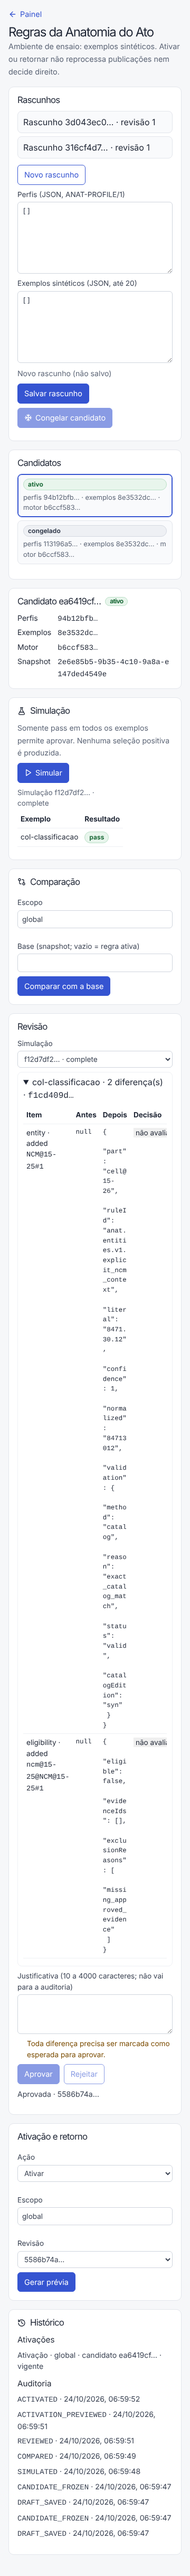
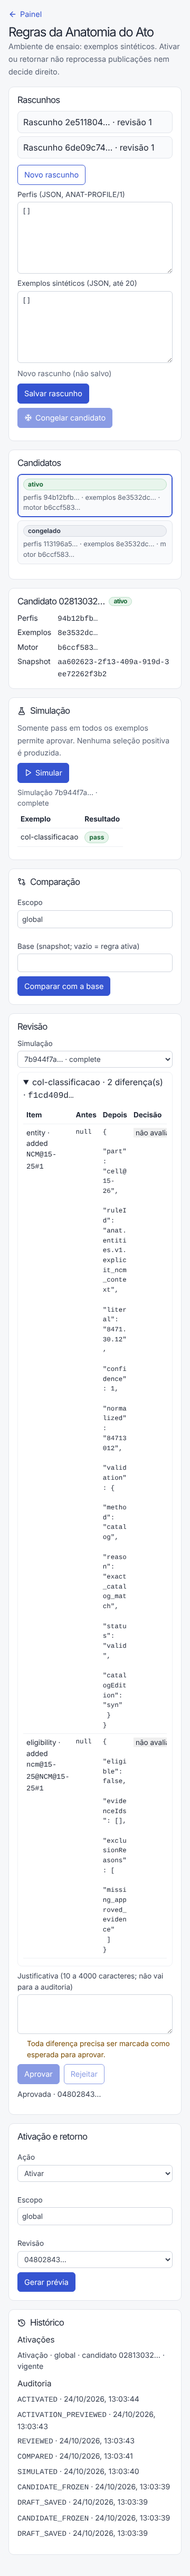
fix(anat): ADMIN-01 P4 R1 — prévia presa ao candidato e congelamento só do conteúdo salvo
P4-R1-01: CandidatePanel remontado por candidato; prévia guardada com candidato, ação e escopo,
nunca exibida nem confirmável sob outro candidato; resposta tardia descartada; confirmação
identifica candidato, ação e escopo.
P4-R1-02: congelar bloqueado com edição pendente ou salvamento em andamento; o conteúdo salvo é
exatamente o enviado.
Ambos reproduzidos no 1269b69 pelos testes novos; e2e contra a API real corrigida: 12 passed.

Claude-Session: https://claude.ai/code/session_01KhCg9yLSBtwRFPrAVa25fp

diff --git a/src/anatomy-rules-admin.tsx b/src/anatomy-rules-admin.tsx
@@ -76,7 +76,7 @@ export function AnatomyRulesAdminPage({ apiFetch, userId }: { apiFetch: ProductA
       </header>
       <div className="ar-layout">
         <section className="ar-column" aria-label="Versões"><DraftsPanel api={api} onFrozen={setSelected} /><CandidatesPanel api={api} selected={selected} onSelect={setSelected} /></section>
-        <section className="ar-column ar-main" aria-label="Candidato">{selected ? <CandidatePanel api={api} id={selected} userId={userId} /> : <p className="ar-empty">Selecione ou congele um candidato.</p>}</section>
+        <section className="ar-column ar-main" aria-label="Candidato">{selected ? <CandidatePanel key={selected} api={api} id={selected} userId={userId} /> : <p className="ar-empty">Selecione ou congele um candidato.</p>}</section>
       </div>
       <HistoryPanel api={api} />
     </div>
@@ -89,20 +89,27 @@ function DraftsPanel({ api, onFrozen }: { api: ReturnType<typeof anatomyRulesApi
   const [editing, setEditing] = useState<Draft | null>(null)
   const [profiles, setProfiles] = useState('[]'); const [examples, setExamples] = useState('[]')
   const [local, setLocal] = useState<string | null>(null)
-  const load = (d: Draft | null) => { setEditing(d); setProfiles(JSON.stringify(d?.profiles ?? [], null, 2)); setExamples(JSON.stringify(d?.examples ?? [], null, 2)); setLocal(null) }
+  // P4-R1-02: what the server holds for `editing` (as shown when loaded or last saved). Freeze needs visible == saved.
+  const [savedText, setSavedText] = useState<{ profiles: string; examples: string } | null>(null)
+  const load = (d: Draft | null) => {
+    const p = JSON.stringify(d?.profiles ?? [], null, 2); const e = JSON.stringify(d?.examples ?? [], null, 2)
+    setEditing(d); setProfiles(p); setExamples(e); setLocal(null); setSavedText(d ? { profiles: p, examples: e } : null)
+  }
   const save = useMutation({
-    mutationFn: async () => {
-      const p = parseJsonArray(profiles, 'Perfis'); const e = parseJsonArray(examples, 'Exemplos')
+    mutationFn: async (sent: { profiles: string; examples: string }) => {
+      const p = parseJsonArray(sent.profiles, 'Perfis'); const e = parseJsonArray(sent.examples, 'Exemplos')
       const problem = p.error ?? e.error ?? (e.value && e.value.length > 20 ? 'Exemplos: no máximo 20.' : null)
       if (problem) { setLocal(problem); throw new Error('local') }
       setLocal(null)
       return editing ? api.updateDraft(editing.id, editing.revision, p.value!, e.value!) : api.createDraft(p.value!, e.value!)
     },
-    onSuccess: async (r) => {
+    onSuccess: async (r, sent) => {
+      setSavedText(sent) // exactly the content that was sent, even if the user kept typing meanwhile
       await qc.invalidateQueries({ queryKey: ['anat', 'drafts'] })
       setEditing((d) => (d ? { ...d, id: r.id, revision: r.revision } : { id: r.id, revision: r.revision, author: '', updatedAt: '', profiles: [], examples: [] }))
     },
   })
+  const dirty = savedText === null || savedText.profiles !== profiles || savedText.examples !== examples
   const freeze = useMutation({
     mutationFn: () => api.freeze(editing!.id, editing!.revision),
     onSuccess: async (r) => { await qc.invalidateQueries({ queryKey: ['anat', 'candidates'] }); onFrozen(r.candidateId) },
@@ -122,9 +129,10 @@ function DraftsPanel({ api, onFrozen }: { api: ReturnType<typeof anatomyRulesApi
       {save.isError && !local && <p className="ar-error" role="alert">{errorText(save.error)}</p>}
       {save.isSuccess && <p className="ar-ok" role="status">Rascunho salvo (revisão {save.data.revision}).</p>}
       <div className="ar-actions">
-        <button type="button" onClick={() => save.mutate()} disabled={save.isPending}>Salvar rascunho</button>
-        <button type="button" onClick={() => freeze.mutate()} disabled={!editing || freeze.isPending}><Snowflake size={15} /> Congelar candidato</button>
+        <button type="button" onClick={() => save.mutate({ profiles, examples })} disabled={save.isPending}>Salvar rascunho</button>
+        <button type="button" onClick={() => freeze.mutate()} disabled={!editing || dirty || save.isPending || freeze.isPending}><Snowflake size={15} /> Congelar candidato</button>
       </div>
+      {editing && dirty && <p className="ar-warn" role="note">Há alterações não salvas: salve antes de congelar.</p>}
       {freeze.isError && <p className="ar-error" role="alert">{errorText(freeze.error)}</p>}
       {freeze.isSuccess && <p className="ar-ok" role="status">{freeze.data.created ? 'Candidato congelado.' : 'Candidato já existia com os mesmos hashes.'}</p>}
     </div>
@@ -252,10 +260,18 @@ function ActivationPanel({ api, detail, onDone }: { api: ReturnType<typeof anato
   const [chosen, setReviewId] = useState('')
   const reviewId = approved.some((r) => r.id === chosen) ? chosen : (approved[0]?.id ?? '')
   const [scope, setScope] = useState('global'); const [action, setAction] = useState<'activate' | 'rollback'>('activate')
-  const [pending, setPending] = useState<Preview | null>(null); const [justification, setJustification] = useState('')
-  const preview = useMutation({ mutationFn: () => api.preview({ action, candidateId: detail.candidate.id, reviewId, scope }), onSuccess: (p) => setPending(p) })
+  // P4-R1-01: a preview is bound to the candidate, action and scope it was generated for; it is never shown (nor
+  // confirmable) under another candidate, and a late response for a previous selection is dropped.
+  const [held, setPending] = useState<{ preview: Preview; candidateId: string; action: 'activate' | 'rollback'; scope: string } | null>(null)
+  const [justification, setJustification] = useState('')
+  const candidateId = detail.candidate.id
+  const pending = held && held.candidateId === candidateId ? held : null
+  const preview = useMutation({
+    mutationFn: async () => ({ preview: await api.preview({ action, candidateId, reviewId, scope }), candidateId, action, scope }),
+    onSuccess: (p) => { if (p.candidateId === candidateId) setPending(p) },
+  })
   const confirm = useMutation({
-    mutationFn: () => api.confirm({ token: pending!.token, intentHash: pending!.intentHash, justification }),
+    mutationFn: () => { if (!pending || pending.candidateId !== candidateId) throw new Error('preview_not_for_this_candidate'); return api.confirm({ token: pending.preview.token, intentHash: pending.preview.intentHash, justification }) },
     onSuccess: async () => { setPending(null); await onDone() },
     onError: (e) => { if (e instanceof AnatomyRulesApiError && ['PREVIEW_EXPIRED', 'PREVIEW_STALE', 'PREVIEW_CONSUMED'].includes(e.code)) setPending(null) },
   })
@@ -275,14 +291,15 @@ function ActivationPanel({ api, detail, onDone }: { api: ReturnType<typeof anato
         {confirm.isSuccess && <p className="ar-ok" role="status">{confirm.data.replayed ? 'Ativação já registrada (repetição).' : 'Ativação registrada.'}</p>}
       </>) : (
         <div className="ar-confirm" role="region" aria-label="Confirmar ativação">
-          <p><strong>Prévia {shortHash(pending.previewId)}</strong> · expira {new Date(pending.expiresAt).toLocaleTimeString('pt-BR')} · base: {pending.affectedScope.basis === 'active_candidate' ? 'regra ativa' : 'perfis padrão do motor'}</p>
+          <p><strong>Candidato {shortHash(pending.candidateId)}</strong> · {pending.action === 'activate' ? 'Ativar' : 'Retornar'} · escopo {pending.scope}</p>
+          <p>Prévia {shortHash(pending.preview.previewId)} · expira {new Date(pending.preview.expiresAt).toLocaleTimeString('pt-BR')} · base: {pending.preview.affectedScope.basis === 'active_candidate' ? 'regra ativa' : 'perfis padrão do motor'}</p>
           <table className="ar-table"><thead><tr><th>Fonte</th><th>Família</th><th>Perfil efetivo</th></tr></thead><tbody>
-            {pending.affectedScope.targets.map((t) => <tr key={`${t.source}|${t.family ?? ''}`}><td>{t.source}</td><td>{t.family ?? 'todas'}</td><td>{t.changed ? 'muda' : 'igual'}</td></tr>)}
+            {pending.preview.affectedScope.targets.map((t) => <tr key={`${t.source}|${t.family ?? ''}`}><td>{t.source}</td><td>{t.family ?? 'todas'}</td><td>{t.changed ? 'muda' : 'igual'}</td></tr>)}
           </tbody></table>
           <ul className="ar-limits">
-            <li>Publicações afetadas: <strong>não suportado</strong> — {pending.affectedScope.publications.reason}</li>
-            <li>Análises existentes: <strong>não suportado</strong> — {pending.affectedScope.analyses.reason}</li>
-            <li>Família desconhecida: {pending.affectedScope.unknownFamily}</li>
+            <li>Publicações afetadas: <strong>não suportado</strong> — {pending.preview.affectedScope.publications.reason}</li>
+            <li>Análises existentes: <strong>não suportado</strong> — {pending.preview.affectedScope.analyses.reason}</li>
+            <li>Família desconhecida: {pending.preview.affectedScope.unknownFamily}</li>
             <li>Nada é reprocessado ao ativar ou retornar.</li>
           </ul>
           <label className="ar-field">Justificativa da ativação (10 a 4000 caracteres)<textarea value={justification} onChange={(e) => setJustification(e.target.value)} rows={2} /></label>

diff --git a/src/anatomy-rules-admin.test.tsx b/src/anatomy-rules-admin.test.tsx
@@ -155,3 +155,87 @@ describe('estado vazio e carregamento', () => {
     await waitFor(() => expect(screen.getByText('Nenhum rascunho ainda.')).toBeInTheDocument())
   })
 })
+
+// ANAT-ADMIN-01 P4 R1 regressions (COORD review of 1269b69). Fixtures only.
+describe('P4 R1', () => {
+  const B = '66666666-6666-4666-8666-666666666666'
+  const approvedReview = { id: 'r1', simulationId: SIM, reviewer: REVIEWER, outcome: 'approved' as const, rationale: 'ok', createdAt: '', comparisonIds: [CMP], decisions: [] }
+  function twoCandidates() {
+    const a = detail({ reviews: [approvedReview] })
+    const b = detail({ reviews: [{ ...approvedReview, id: 'r2' }] }); b.candidate = { ...b.candidate, id: B, state: 'approved', ruleHash: h('7') }
+    a.candidate = { ...a.candidate, state: 'approved' }
+    const calls: { url: string; body: unknown }[] = []
+    const apiFetch = vi.fn(async (input: RequestInfo | URL, init?: RequestInit) => {
+      const url = String(input); calls.push({ url, body: init?.body ? JSON.parse(String(init.body)) : undefined })
+      if (url.endsWith('/api/v1/admin/me')) return json({ platformAdmin: true, taxonomyCurator: false, licenseBypass: true, curatorDatabase: false })
+      if (url.endsWith('/drafts')) return json([])
+      if (url.endsWith('/candidates')) return json([a.candidate, b.candidate])
+      if (url.endsWith(`/candidates/${CAND}`)) return json(a)
+      if (url.endsWith(`/candidates/${B}`)) return json(b)
+      if (url.endsWith('/activations') || url.endsWith('/audit')) return json([])
+      if (url.endsWith('/activation/preview')) {
+        const body = JSON.parse(String(init!.body)) as { candidateId: string }
+        return json({ previewId: 'p-' + body.candidateId.slice(0, 4), intentHash: h('8'), expiresAt: '2026-10-24T00:10:00Z', token: `tok-${body.candidateId.slice(0, 4)}`,
+          affectedScope: { basis: 'shipped_defaults', targets: [], publications: { status: 'unsupported', reason: 'r' }, analyses: { status: 'unsupported', reason: 'r' }, unknownFamily: 'u', reprocessing: 'none' } }, 201)
+      }
+      if (url.endsWith('/activation/confirm')) return json({ activationId: 'a1', replayed: false })
+      return json({ error: 'not_mocked' }, 404)
+    }) as unknown as ProductApiFetch
+    return { apiFetch, calls }
+  }
+
+  it('P4-R1-01: uma prévia de A nunca pode ser confirmada na tela de B', async () => {
+    const { apiFetch, calls } = twoCandidates()
+    renderPage(apiFetch, REVIEWER)
+    const buttons = await screen.findAllByRole('button', { name: /aprovado/u })
+    // Warm both candidates in the query cache first (the review's precondition), then go back to A.
+    fireEvent.click(buttons[1]!)
+    await screen.findByText(/Candidato 66666666/u)
+    fireEvent.click(buttons[0]!)
+    await screen.findByText(/Candidato 33333333/u)
+    fireEvent.click(screen.getByRole('button', { name: 'Gerar prévia' }))
+    const region = await screen.findByRole('region', { name: 'Confirmar ativação' })
+    expect(within(region).getByText(/33333333/u)).toBeInTheDocument()
+    expect(within(region).getByText(/Ativar · escopo global/u)).toBeInTheDocument()
+    // Both candidates are cached; switch to B.
+    fireEvent.click(buttons[1]!)
+    await screen.findByText(/Candidato 66666666/u)
+    expect(screen.queryByRole('region', { name: 'Confirmar ativação' })).toBeNull()
+    expect(calls.some((c) => c.url.endsWith('/activation/confirm'))).toBe(false)
+    // Back to A: the old token is gone too (a new preview is required).
+    fireEvent.click(buttons[0]!)
+    await screen.findByText(/Candidato 33333333/u)
+    expect(screen.queryByRole('region', { name: 'Confirmar ativação' })).toBeNull()
+  })
+
+  it('P4-R1-02: congelar exige que o conteúdo visível esteja salvo', async () => {
+    let release: (() => void) | null = null
+    const draft = { id: 'dddddddd-dddd-4ddd-8ddd-dddddddddddd', author: AUTHOR, revision: 1, updatedAt: '', profiles: [{ a: 1 }], examples: [{ id: 'ex-a' }] }
+    const apiFetch = vi.fn(async (input: RequestInfo | URL, init?: RequestInit) => {
+      const url = String(input)
+      if (url.endsWith('/api/v1/admin/me')) return json({ platformAdmin: true, taxonomyCurator: false, licenseBypass: true, curatorDatabase: false })
+      if (url.endsWith('/drafts') && (init?.method ?? 'GET') === 'GET') return json([draft])
+      if (url.endsWith(`/drafts/${draft.id}`) && init?.method === 'PUT') { await new Promise<void>((r) => { release = r }); return json({ id: draft.id, revision: 2 }) }
+      if (url.endsWith('/candidates') || url.endsWith('/activations') || url.endsWith('/audit')) return json([])
+      return json({ error: 'not_mocked' }, 404)
+    }) as unknown as ProductApiFetch
+    renderPage(apiFetch, AUTHOR)
+    fireEvent.click(await screen.findByRole('button', { name: /Rascunho dddddddd/u }))
+    const freezeButton = screen.getByRole('button', { name: /Congelar candidato/u })
+    expect(freezeButton).toBeEnabled()
+    fireEvent.change(screen.getByLabelText('Perfis (JSON, ANAT-PROFILE/1)'), { target: { value: '[{"a":2}]' } })
+    expect(freezeButton).toBeDisabled()
+    expect(screen.getByText('Há alterações não salvas: salve antes de congelar.')).toBeInTheDocument()
+    fireEvent.click(screen.getByRole('button', { name: 'Salvar rascunho' }))
+    await waitFor(() => expect(release).not.toBeNull())
+    expect(freezeButton).toBeDisabled() // save still in flight
+    release!()
+    await screen.findByText(/Rascunho salvo \(revisão 2\)/u)
+    await waitFor(() => expect(freezeButton).toBeEnabled())
+    // Switching drafts discards unsaved edits explicitly (the loaded content is the saved one).
+    fireEvent.change(screen.getByLabelText('Exemplos sintéticos (JSON, até 20)'), { target: { value: '[]' } })
+    expect(freezeButton).toBeDisabled()
+    fireEvent.click(screen.getByRole('button', { name: /Rascunho dddddddd/u }))
+    expect(freezeButton).toBeEnabled()
+  })
+})
